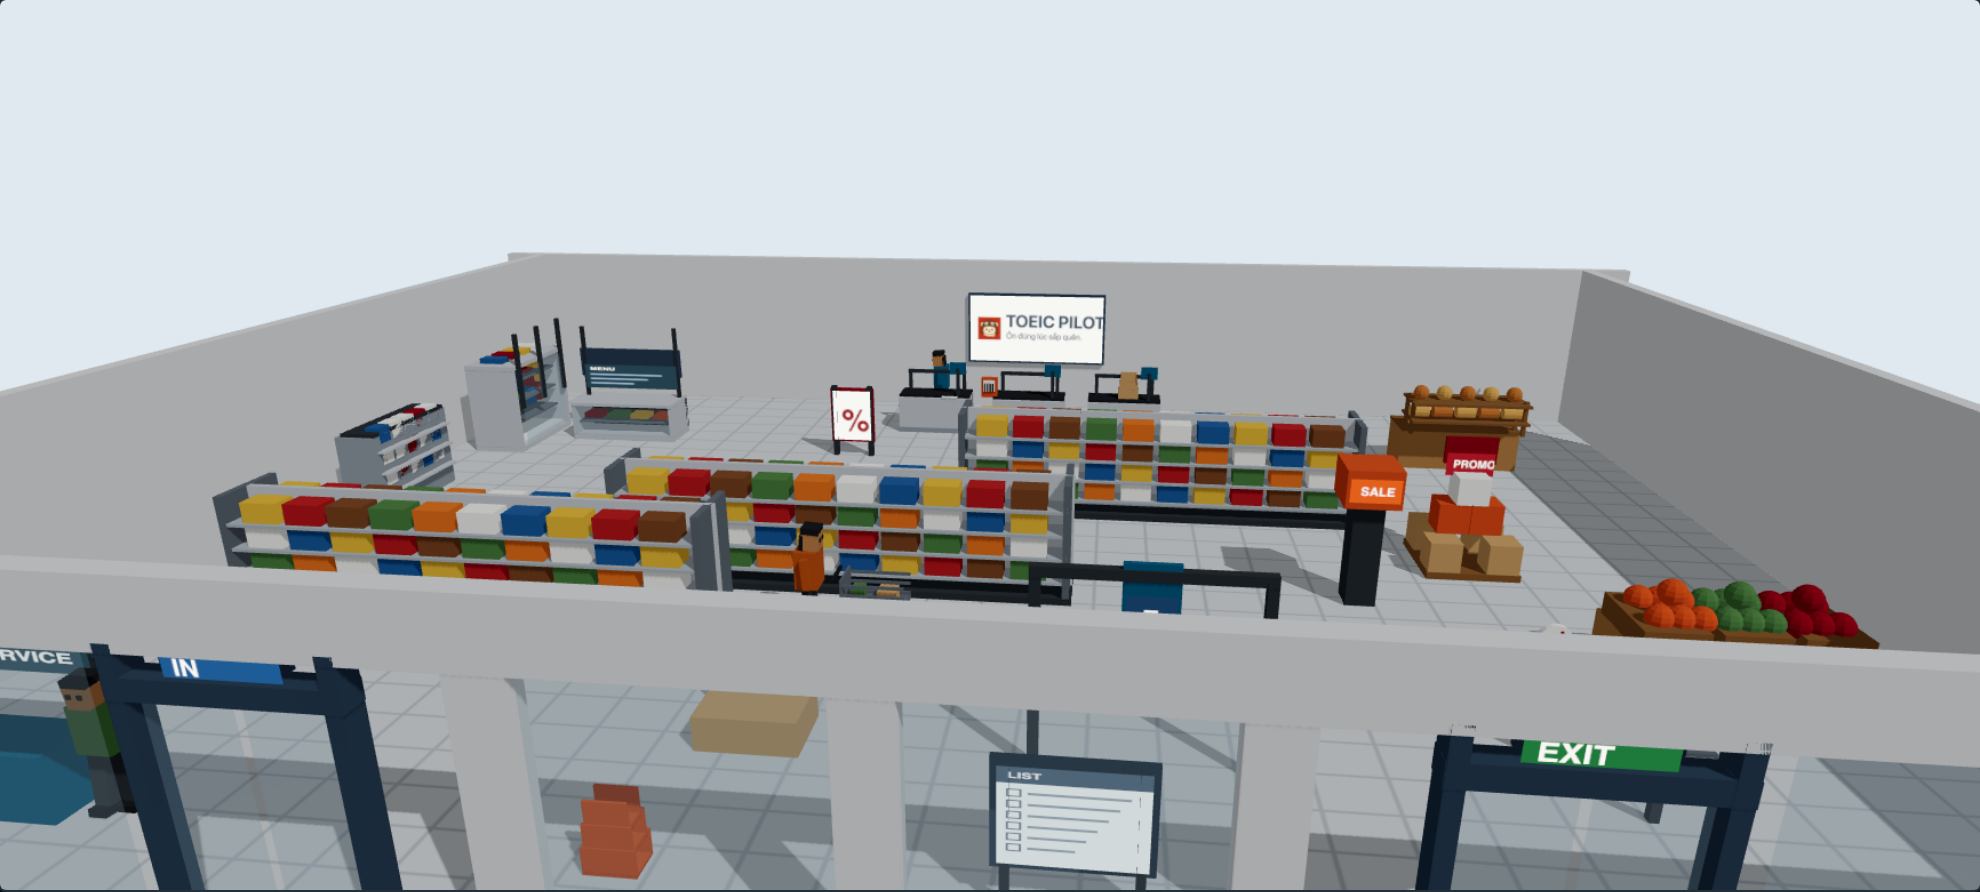
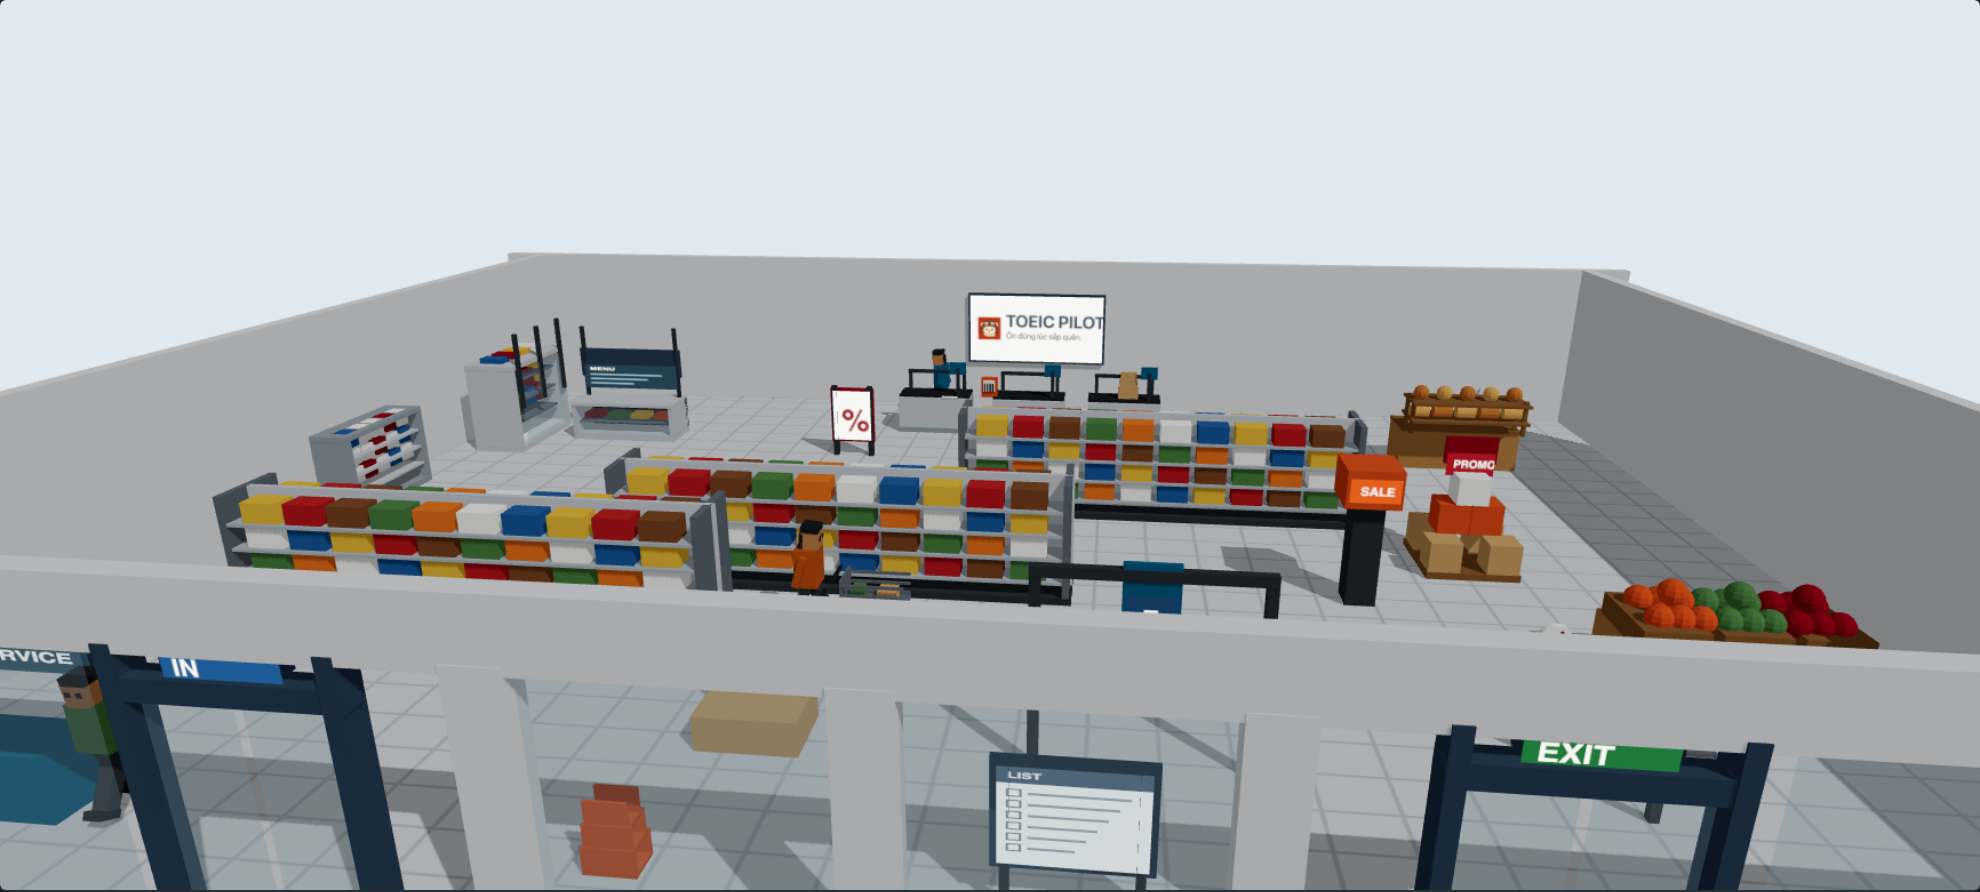
fix(scenes): lam lai dairy vo rong + cot cua/tuong lech day chong flicker

diff --git a/apps/web/src/components/scenes/scene-shapes-supermarket.tsx b/apps/web/src/components/scenes/scene-shapes-supermarket.tsx
@@ -120,8 +120,11 @@ function DoorWithSign({ text, bg }: { text: string; bg: string }) {
   );
   return (
     <group>
+      {/* cột DÀY hơn dải tường ngang (0.34 vs 0.3): cùng độ dày là mặt hông
+          cột trùng mặt hông dải đúng đoạn giao nhau → flicker. Lồi 0.02 mỗi
+          bên đọc như gờ trụ, có chủ ý. */}
       {[-1.1, 1.1].map((x) => (
-        <Box key={x} size={[0.18, 3.3, 0.3]} at={[x, 0, 0]} color={PALETTE.wallTrim} />
+        <Box key={x} size={[0.18, 3.3, 0.34]} at={[x, 0, 0]} color={PALETTE.wallTrim} />
       ))}
       <Box size={[2.4, 0.25, 0.3]} at={[0, 2.7, 0]} color={PALETTE.wallTrim} />
       <Box size={[1.3, 0.5, 0.08]} at={[0, 3.05, 0]} color={PALETTE.wallTrim} />
@@ -219,8 +222,9 @@ function AisleSign() {
   );
   return (
     <group>
+      {/* chân lút 0.05 vào xà (đỉnh chân chạm đỉnh xà là trùng mặt) */}
       {[-1.4, 1.4].map((x) => (
-        <Box key={x} size={[0.14, 2.7, 0.14]} at={[x, 0, 0]} color={PALETTE.steelDark} />
+        <Box key={x} size={[0.14, 2.62, 0.14]} at={[x, 0, 0]} color={PALETTE.steelDark} />
       ))}
       <Box size={[2.94, 0.14, 0.14]} at={[0, 2.63, 0]} color={PALETTE.steelDark} />
       <Box size={[0.7, 0.7, 0.08]} at={[0, 2.15, 0]} color={PALETTE.brandBlue} />
@@ -372,25 +376,32 @@ function SampleStand() {
   );
 }
 
-/** Tủ sữa mở: thân XÁM + hộp xen trắng/xanh/đỏ.
- *  Thân trắng + hộp trắng là tàng hình (mắt kiểm cận dairy) — sữa thật cũng
- *  nhận diện bằng nắp/mác màu. Dài 2.4 (world X sau yaw): lưng lút tường 0.1,
- *  mặt trước hở dãy kệ decor phía đông 0.6. */
+/** Tủ sữa mở: VỎ RỖNG mặt +X (lưng/đáy/nóc/2 hông) + 3 kệ thò ra + hộp
+ *  sữa đầy màu NGỒI HẲN NGOÀI thân.
+ *  Bản cũ chôn kệ+hộp trong khối đặc: mặt trước hộp trùng khít mặt trước
+ *  thân (cùng x = 0.3) nên flicker diện rộng. Vỏ rỗng thì không còn mặt
+ *  nào để trùng. Cao 1.7 m, mặt mở sẵn +X nên khỏi yaw. */
 const MILK = ["#f7f7f4", "#3b6ea5", "#f7f7f4", "#a31220", "#f7f7f4"] as const;
 function DairyCooler() {
   return (
     <group>
-      <Box size={[0.8, 1.7, 2.4]} at={[-0.1, 0, 0]} color={PALETTE.concreteDark} />
-      {/* nắp lút vào thân; hộp ngồi lút 0.005 trên mặt kệ (§12.3) */}
-      <Box size={[0.7, 0.08, 2.3]} at={[-0.05, 1.69, 0]} color={PALETTE.steelDark} />
-      {[0.45, 0.9, 1.35].map((y, tier) => (
+      {/* vỏ: đáy + lưng + nóc + 2 hông (chân lút nhau, đỉnh hông chìm
+          dưới nóc cho khỏi trùng mặt) */}
+      <Box size={[0.8, 0.12, 2.4]} at={[-0.2, 0, 0]} color={PALETTE.concreteDark} />
+      <Box size={[0.12, 1.58, 2.4]} at={[-0.54, 0.115, 0]} color={PALETTE.concreteDark} />
+      <Box size={[0.8, 0.1, 2.4]} at={[-0.2, 1.6, 0]} color={PALETTE.concreteDark} />
+      {[-1.14, 1.14].map((z) => (
+        <Box key={z} size={[0.8, 1.68, 0.12]} at={[-0.2, 0, z]} color={PALETTE.concreteDark} />
+      ))}
+      {/* 3 kệ thò ra khỏi mặt mở (đuôi lút vào lưng) + hộp ngồi lút 0.005 */}
+      {[0.42, 0.8, 1.18].map((y, tier) => (
         <group key={y}>
-          <Box size={[0.6, 0.04, 2.2]} at={[0.15, y, 0]} color={PALETTE.concrete} />
+          <Box size={[0.75, 0.05, 2.1]} at={[-0.2, y, 0]} color={PALETTE.concrete} />
           {[-0.8, -0.4, 0, 0.4, 0.8].map((z, i) => (
             <Box
               key={z}
               size={[0.3, 0.32, 0.32]}
-              at={[0.15, y + 0.175, z]}
+              at={[-0.12, y + 0.205, z]}
               color={MILK[(tier + i) % MILK.length]}
             />
           ))}
@@ -829,8 +840,10 @@ export function SupermarketEnvironment({
       <Box size={[0.3, 4.0, 22]} at={[14, 0, 0]} color={PALETTE.wall} />
       {/* mặt kính nam: trụ + dải kính, chừa 2 ô cửa (x −7..−5, 5..7) cho
           entry-door/exit-door vẽ khung riêng */}
+      {/* trụ mặt tiền DÀY hơn dải ngang (0.34 vs 0.3) + đâm lút vào dải:
+          cùng độ dày là mặt hông trùng nhau đúng đoạn giao → flicker */}
       {[-13.5, -10, -3.5, 0, 3.5, 10, 13.5].map((x) => (
-        <Box key={x} size={[0.6, 3.2, 0.3]} at={[x, 0, 10]} color={PALETTE.wall} />
+        <Box key={x} size={[0.6, 3.3, 0.34]} at={[x, 0, 10]} color={PALETTE.wall} />
       ))}
       <Box size={[28, 0.8, 0.3]} at={[0, 3.2, 10]} color={PALETTE.wall} />
       {[

diff --git a/apps/web/src/content/scenes/supermarket.ts b/apps/web/src/content/scenes/supermarket.ts
@@ -182,9 +182,8 @@ export const supermarketScene: SceneDef = {
       partOfSpeech: "noun",
       // Tủ sữa mở áp tường tây, mặt +X vào phòng. KHÔNG yaw: shape đã dựng
       // mặt mở theo +X, yaw π/2 là quay mặt mở vào tường tây (mắt kiểm cận
-      // dairy lần 1: chỉ thấy lưng tủ). Dài 2.4 theo X: lưng hở tường 0.7,
-      // mặt hở dãy kệ decor 0.35.
-      position: [-12.75, 0, -2],
+      // dairy lần 1: chỉ thấy lưng tủ). Lưng hở tường 0.05, mặt hở kệ 1.0.
+      position: [-13.2, 0, -2],
       focusDistance: 5,
       hotspotY: 2.6,
       topY: 1.7,
